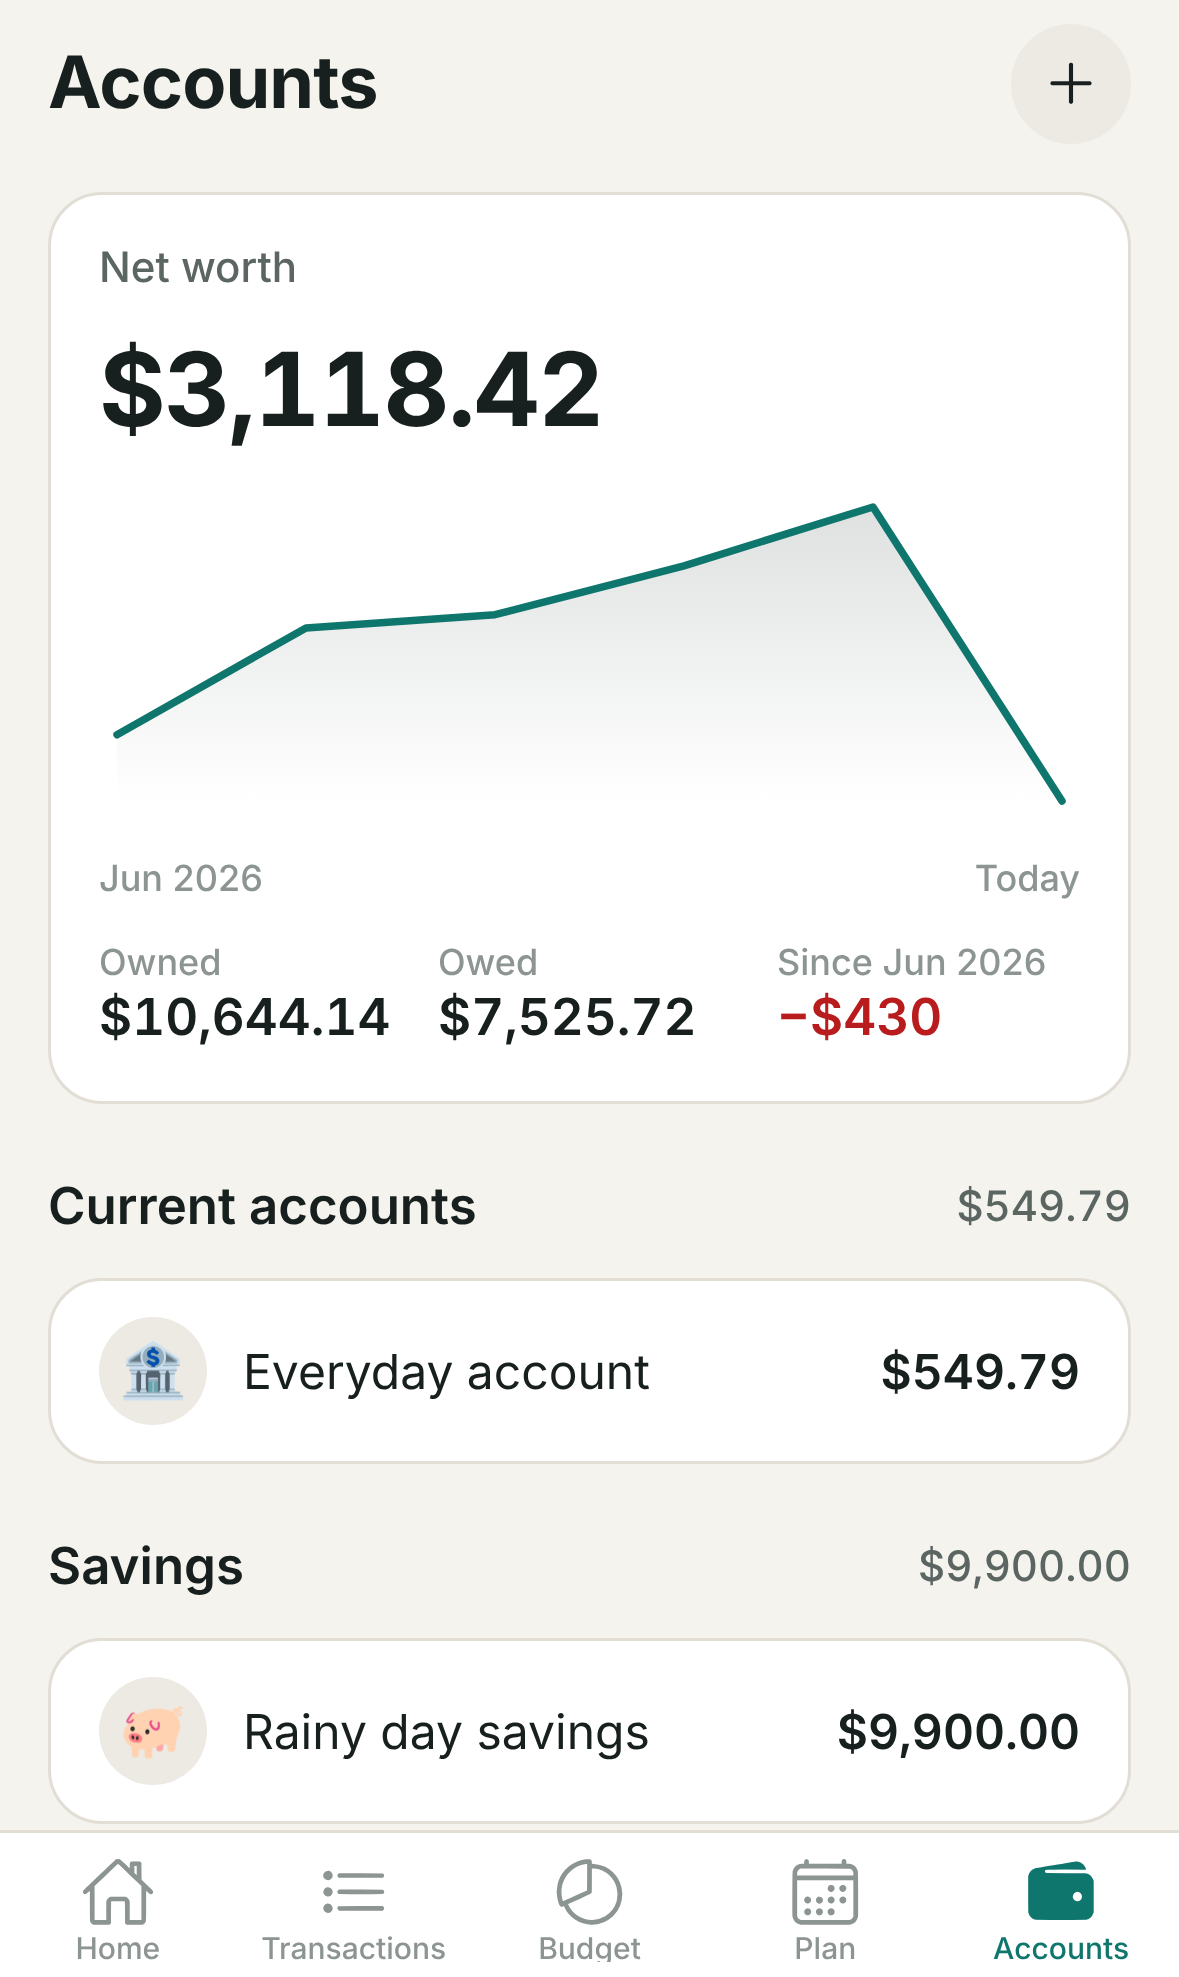
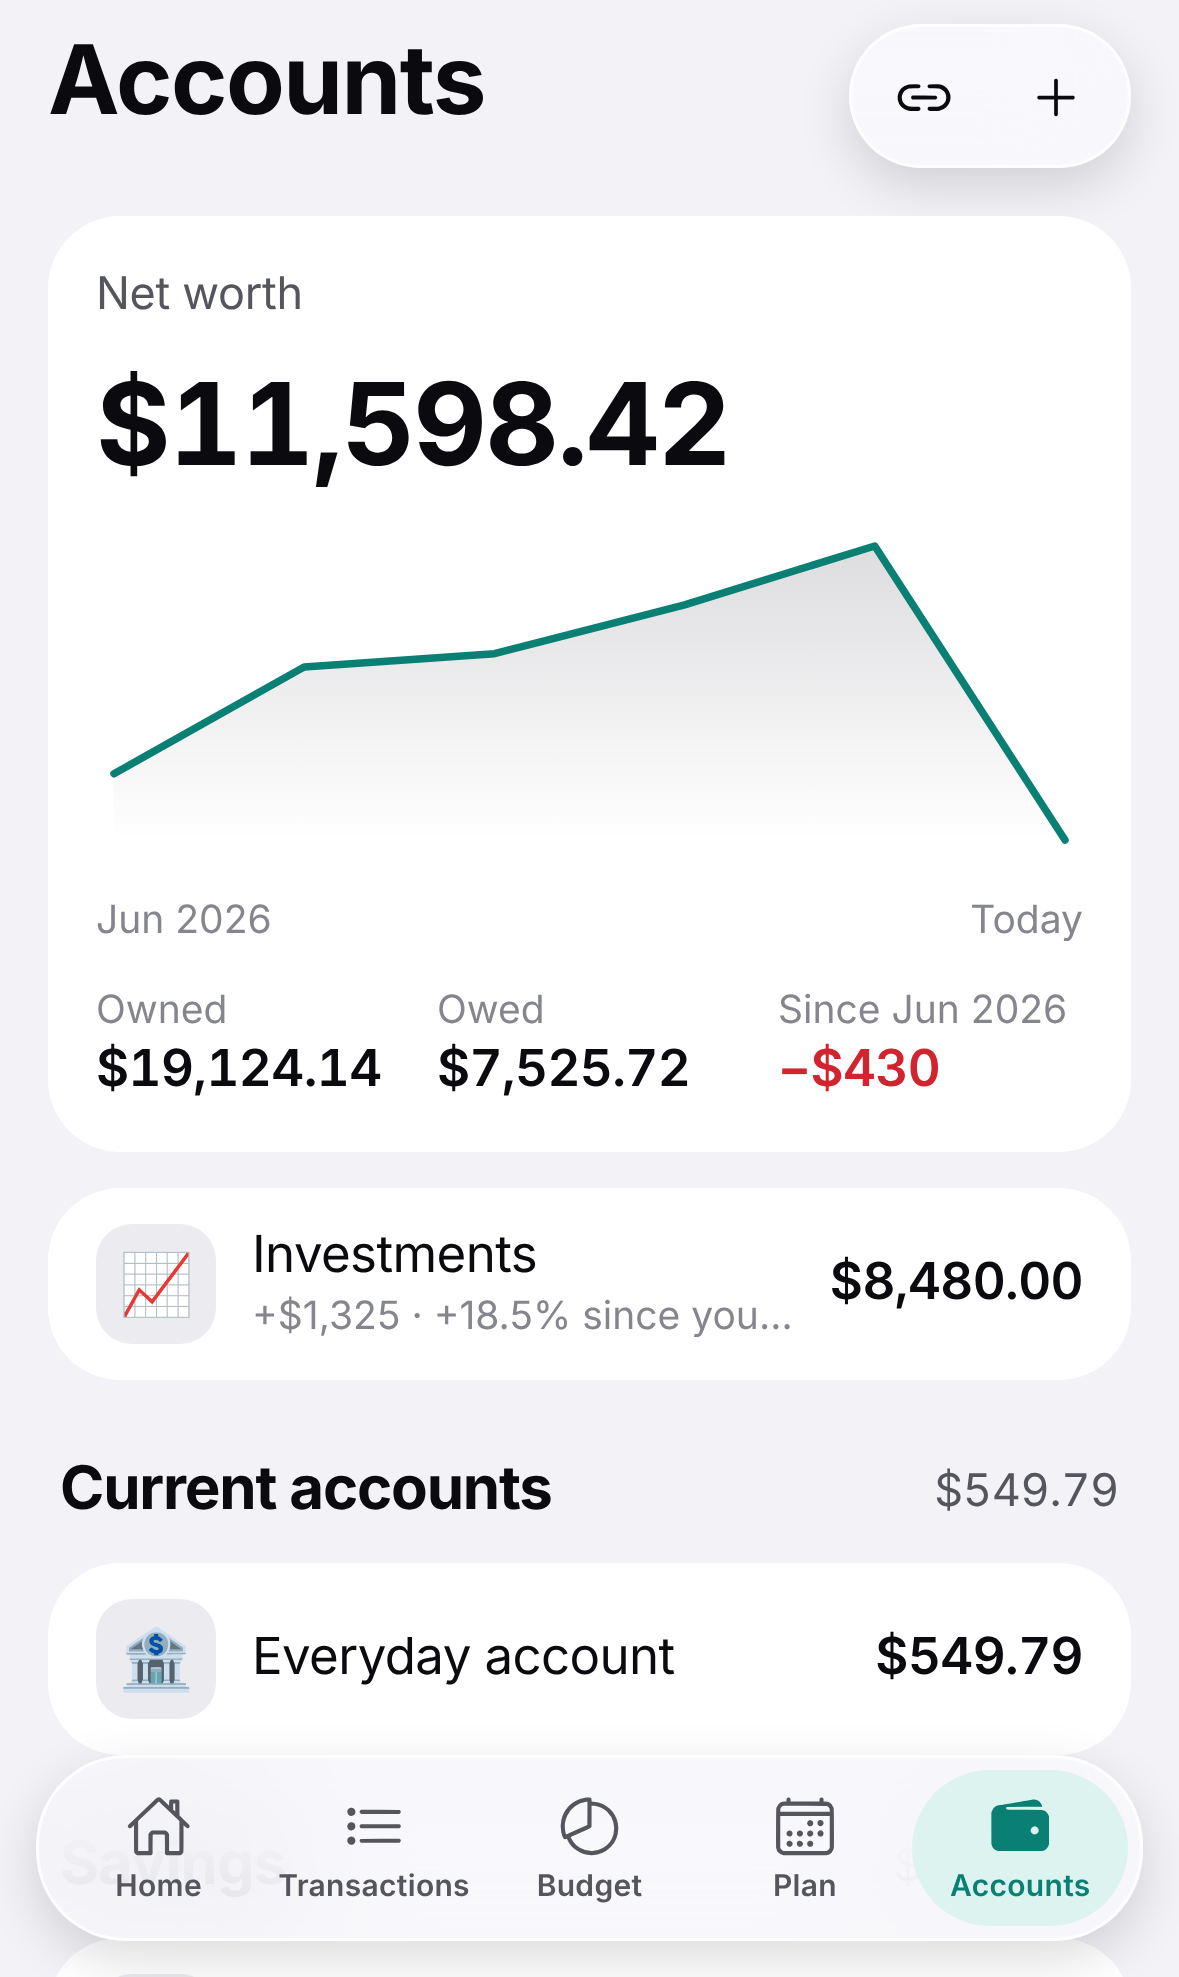
Document bank sync, investments and the new design
Adds docs/bank-sync.md: how automatic updates work, what they need,
their limits, and what the other routes (Plaid, Enable Banking,
FinanceKit) would take. Updates the README, the Copilot study and the
screenshots.

Claude-Session: https://claude.ai/code/session_01R6wdmxPzyiLVqgcJeKC4sF

diff --git a/README.md b/README.md
@@ -1,13 +1,13 @@
 # Waypoint
 
 A personal money tracker for iPhone. It covers what the best budgeting apps do (spending, budgets, bills, net worth,
-goals) and is built around the things they tend to get wrong: it works with any bank in any currency, it plans ahead
-instead of only looking back, and your data never leaves your phone.
+investments, goals) and is built around the things they tend to get wrong: it works with any bank in any currency, it
+plans ahead instead of only looking back, and your data lives on your phone.
 
 <p>
   <img src="docs/screenshots/home.png" width="190" alt="Home: spending pace this month against last month, and free to spend" />
   <img src="docs/screenshots/budget.png" width="190" alt="Budget: categories with spent, budgeted and what is left" />
-  <img src="docs/screenshots/forecast.png" width="190" alt="Forecast: projected cash balance for the next 30 days" />
+  <img src="docs/screenshots/investments.png" width="190" alt="Investments: total value, gain since purchase, allocation and holdings" />
   <img src="docs/screenshots/home-dark.png" width="190" alt="Home in dark appearance" />
 </p>
 
@@ -18,8 +18,14 @@ or artwork with Copilot.
 
 ## What it does
 
-- **Transactions.** Add by hand in a few taps, or import a CSV export from any bank. Search across payee, notes, tags
-  and amounts; filter; select several and categorise them together; export exactly what you filtered.
+- **Transactions.** Add by hand in a few taps, import a CSV export from any bank, or connect a bank and let them
+  arrive by themselves. Search across payee, notes, tags and amounts; filter; select several and categorise them
+  together; export exactly what you filtered.
+- **Bank connections.** Transactions, balances and investment holdings sync straight from the bank service to the
+  phone, with no Waypoint server in between. See [docs/bank-sync.md](docs/bank-sync.md) for how it works, what it
+  needs and where its limits are.
+- **Investments.** Holdings with current value, gain since purchase and allocation, from a connected brokerage or
+  entered by hand.
 - **Budget.** Category budgets with rollover. Change a budget for one month or from now on; past months never change.
   Track spending against limits, or switch to planning every unit of income.
 - **Bills and income.** Weekly to yearly schedules, found in your history or added by hand. Mark paid or skip in two
@@ -28,7 +34,15 @@ or artwork with Copilot.
 - **Goals and debt.** Savings goals that say how much to put aside each month, and a payoff plan for cards and loans.
 - **Accounts and net worth.** Any mix of currencies, converted with rates you set.
 - **Rules.** Tidy up transactions automatically, with every rule visible, editable and reorderable.
-- **Your data.** Stored on the device only. One-file backup and restore. No account, no subscription.
+- **Your data.** Stored on the device. One-file backup and restore. No Waypoint account, no subscription.
+
+## How it looks
+
+The interface follows Apple's current design language, Liquid Glass. Content is calm and opaque on a grouped
+background. Navigation and controls float above it on glass: the tab bar, toolbar buttons, the add button, sheets and
+toasts. On iPhone the tab bar is the system's own, icons are SF Symbols, amounts use rounded numerals, and selections
+and saves give haptic feedback. The real glass material needs iOS 26 or later; older iPhones, Android and browsers
+get a translucent stand-in with the same layout.
 
 ## Run it
 
@@ -65,27 +79,33 @@ identifier you own. On a Mac you can also run `npx expo run:ios` to build locall
 | --- | --- |
 | `npm run typecheck` | TypeScript, strict mode |
 | `npm run lint` | ESLint with Expo's rules |
-| `npm test` | Over 300 Jest tests: all the money logic, the data store, and the whole app rendered through its real routes as it runs on iPhone |
+| `npm test` | Over 350 Jest tests: all the money logic, bank syncing, the data store, and the whole app rendered through its real routes as it runs on iPhone |
 | `npm run test:coverage` | The same, failing if the core logic drops below 90% coverage |
 | `npm run build:ios-bundle` | The iPhone JavaScript bundle compiles |
-| `npm run build:web && npm run e2e` | About 30 Playwright tests driving the real app at iPhone size: first run, transactions, budgets, bills, forecast, import, backup and restore |
+| `npm run build:web && npm run e2e` | Over 30 Playwright tests driving the real app at iPhone size: first run, transactions, budgets, bills, forecast, import, bank connections, investments, backup and restore |
+| `npm run check:bank-sync` | Bank syncing against a real server: SimpleFIN's public demo bank |
 | `npm run verify` | All of the above in order |
 
 The first time, the browser tests need a browser: `npx playwright install chromium`.
 `.github/workflows/ci.yml` runs the full set on every pull request.
 
-What is not covered here: the app has not been run on a physical iPhone or in the iOS Simulator by these tests. Native
-file sharing (exporting through the share sheet) and the system file picker are exercised only in their web form.
+What is not covered here: the app has not been run on a physical iPhone or in the iOS Simulator by these tests. That
+matters most for the parts only an iPhone can draw: the Liquid Glass tab bar and surfaces, SF Symbols and haptics are
+checked for compiling and rendering without error, not for how they look. Native file sharing (exporting through the
+share sheet), the system file picker and the keychain are exercised only in their web or stand-in form.
 
 ## How it is put together
 
 ```
 src/
   domain/     Pure TypeScript with no React: money, dates, budgets, rules, recurring schedules,
-              forecast, net worth, goals, debt, CSV import and export, backup. Fully unit tested.
-  store/      The dataset and every operation on it as pure functions, wrapped in a Zustand store
-              that saves to the device after each change.
-  ui/         Theme, components, sheets, pickers and charts.
+              forecast, net worth, investments, goals, debt, CSV import and export, backup, and
+              the SimpleFIN protocol. Fully unit tested.
+  store/      The dataset and every operation on it as pure functions, including merging what
+              a bank reports, wrapped in a Zustand store that saves after each change.
+  sync/       The network side of bank connections: claiming a token, fetching, scheduling.
+  platform/   Things that differ per platform: files, the keychain, haptics.
+  ui/         Theme, glass surfaces, icons, components, sheets, pickers and charts.
   features/   Screen sections shared between routes.
   app/        Screens. The file layout is the navigation (Expo Router).
 e2e/          Playwright tests against the web build.
@@ -103,15 +123,18 @@ Three decisions shape the code:
 
 ## Your data
 
-Everything is stored on the device in the app's own storage. Nothing is sent anywhere; the app makes no network
-requests of its own. That also means there is no automatic copy: use **Settings → Save a backup** now and then, and
-before changing phone. If saved data ever cannot be read, the app says so and keeps the unreadable copy rather than
-overwriting it.
+Everything is stored on the device in the app's own storage. Unless you connect a bank, the app makes no network
+requests at all. If you do, it talks only to the SimpleFIN server you connected, and the access key is kept in the
+device keychain, never in your data or backups.
+
+There is no automatic copy of your data: use **Settings → Save a backup** now and then, and before changing phone. If
+saved data ever cannot be read, the app says so and keeps the unreadable copy rather than overwriting it.
 
 ## Known limits
 
-- No live bank connection: transactions come in by hand or by CSV import.
-- No investment holdings or live prices; an investment account is a balance you update.
+- Bank connections cover the United States and Canada and refresh about once a day, not instantly.
+- Holdings entered by hand keep the value you type; market prices are not fetched. No performance history or
+  benchmarks.
 - One device, one person: no sync and no shared household.
 - Exchange rates are entered by hand.
 - English only.

diff --git a/docs/bank-sync.md b/docs/bank-sync.md
@@ -1,0 +1,71 @@
+# Automatic bank and investment updates
+
+Waypoint can bring in transactions, balances and investment holdings by itself. This page explains how it works, what
+it needs from you, where its limits are, and what the other routes would take.
+
+## What is built
+
+Waypoint speaks [SimpleFIN](https://www.simplefin.org/protocol.html), an open standard for sharing read-only bank data.
+
+1. You create a token at SimpleFIN Bridge and paste it into **Accounts → Bank connections**.
+2. Waypoint exchanges it once for an access key and stores that key in the device keychain.
+3. You choose which bank accounts to follow. Each can start a new account in Waypoint or continue one you already have.
+4. From then on Waypoint fetches straight from the SimpleFIN server whenever you open the app (at most every four hours)
+   and whenever you pull down to refresh on Home or Accounts.
+
+There is no Waypoint server in between and no developer key: the phone talks to SimpleFIN directly with your own token.
+The connection is read-only. It can see balances and transactions; it cannot move money.
+
+What arrives:
+
+- **Transactions**, new ones marked "to review", with readable names and the bank's original text kept alongside.
+  Your rules and bill matching run on them as they arrive.
+- **Balances**, which Waypoint matches to the cent on every sync.
+- **Holdings** for investment accounts: shares, current value and, where the bank provides it, what you paid.
+
+How it merges with what you already have:
+
+- The bank decides amounts, dates, pending or cleared, and balances.
+- You decide names, categories, notes, tags and splits. A sync never overwrites those.
+- A transaction you entered by hand, or imported from a CSV, is recognised and linked instead of duplicated.
+- A pending charge is followed when it clears, including when it posts under a new id with a tip added, and is removed
+  if the bank drops it.
+
+You can try all of this without an account: **Bank connections → Try it with a demo bank** connects to SimpleFIN's
+public demo. `npm run check:bank-sync` runs the same code against that server from the command line.
+
+## What you need
+
+- **A SimpleFIN Bridge account.** It is a paid service run by SimpleFIN, not by Waypoint.
+- **A bank it covers.** SimpleFIN Bridge connects to banks in the United States and Canada.
+
+## The limits
+
+- **Daily, not instant.** Banks refresh through SimpleFIN about once a day, so a purchase appears the next day, not
+  the next minute. Entering it by hand in the meantime is fine: the sync will match it.
+- **About 45 days of history** on the first sync. Import a CSV for anything older.
+- **United States and Canada only**, because that is what SimpleFIN Bridge covers.
+- **Holdings follow the bank.** Prices update when the brokerage syncs. A holding you add by hand keeps the value you
+  type; Waypoint does not fetch market prices itself.
+- **No investment performance history or benchmarks.** It shows value and gain since purchase, not a chart over time.
+- **Connections are per device.** The access key is not in backups, so after restoring a backup you connect again.
+
+## The other routes, and what each would take
+
+| Route | Coverage | What it needs |
+| --- | --- | --- |
+| **SimpleFIN** (built) | US, Canada | Your own SimpleFIN token. Nothing else. |
+| **Plaid** | US, Canada, UK, parts of Europe | A server to hold Plaid's secret key (it must not ship inside an app), Plaid approving the app for production access, and Plaid's native sign-in screen, which means a custom build rather than Expo Go. This is what Copilot uses. |
+| **Enable Banking** | Europe, UK | Reported to have a free tier for linking your own accounts. Needs an adapter that signs requests with a private key, and each bank's consent expires and has to be renewed, typically every 90 to 180 days. |
+| **GoCardless Bank Account Data** | Europe, UK | Reported closed to new sign-ups, so only usable if you already have keys. |
+| **Apple FinanceKit** | Apple Card, Apple Cash, Savings | Real-time and entirely on the phone, but Apple has to grant the app an entitlement, and it needs a native module and a custom build. |
+
+Push notifications the moment a card is charged, as Copilot has, need a server listening for the bank's notifications.
+That is the one thing a phone-only design cannot do.
+
+## Adding another service
+
+The merge logic does not know about SimpleFIN. A new service needs one thing: a function that turns its response into a
+`RemoteSnapshot` (`src/domain/sync/types.ts`), the same shape `parseAccountSet` produces in
+`src/domain/sync/simplefin.ts`. Everything after that, matching, deduplication, balances, holdings, is shared in
+`src/store/sync.ts`.

diff --git a/docs/copilot-teardown.md b/docs/copilot-teardown.md
@@ -59,15 +59,18 @@ file, raw card descriptors are cleaned into readable names, and rows already on 
 charge that reappears with a shifted date. Dates are calendar dates with no timezone, so a transaction cannot drift to
 the neighbouring day.
 
-This is also the main trade-off: **Waypoint has no live bank connection.** See "What Waypoint does not do".
+For people who do want it automatic, Waypoint can also connect to a bank: transactions, balances and holdings sync
+from the bank service straight to the phone, and anything already entered by hand is matched rather than duplicated.
+Coverage and freshness are narrower than Copilot's; see [bank-sync.md](bank-sync.md) and "What Waypoint does not do".
 
 ### 4. Your credentials and data pass through third parties
 
 Bank links run through aggregators (Plaid, Finicity), and the data lives on Copilot's servers.
 *Sources: ToS Watchdog, The Penny Hoarder.*
 
-**Waypoint:** no account, no server, no bank password. Everything is stored on the device. Backup is a single readable
-file you save where you like, and restore validates it before replacing anything.
+**Waypoint:** no account, no Waypoint server, no bank password. Everything is stored on the device. A bank connection
+is optional, uses a read-only token you create yourself, and keeps its access key in the device keychain. Backup is a
+single readable file you save where you like, and restore validates it before replacing anything.
 
 ### 5. Subscription only
 
@@ -142,9 +145,11 @@ words instead of showing a meaningless percentage.
 
 Stated plainly, so nobody is surprised:
 
-- **No live bank sync.** Transactions arrive by hand or by CSV import. This is deliberate (it is what removes the
-  country, currency, reliability and credential problems above) but it is more effort than a working bank link.
-- **No investment holdings or live prices.** An investment account is a balance you update.
+- **Bank sync is narrower than Copilot's.** It covers the United States and Canada through SimpleFIN, refreshes about
+  once a day rather than within minutes, and cannot send a notification the moment a card is charged. Everywhere
+  else, transactions arrive by hand or by CSV import.
+- **Investments are simpler.** Holdings show value and gain since purchase. There is no performance chart over time,
+  no benchmark comparison, and holdings entered by hand are not priced automatically.
 - **No shared household.** There is no server, so two phones cannot share one dataset. One reviewer reports that
   Copilot has announced a household feature; Waypoint has no equivalent. A backup file can be moved between devices
   by hand.
